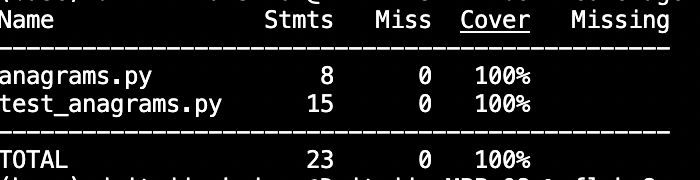
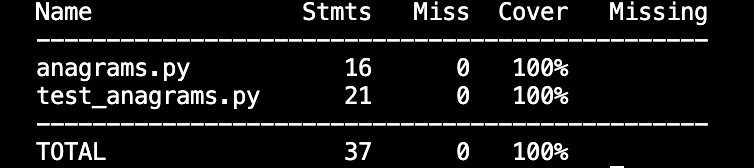
find_anagrams function fixed

diff --git a/08/anagrams.py b/08/anagrams.py
@@ -4,7 +4,7 @@ from collections import Counter
 def find_anagrams(text, pattern):
     """
     Find positions of anagrams pattern in text, case sensitive.
-    Complexity: O(n), n - number of words in text
+    Complexity: O(n)
 
     Args:
         text (str): string to search for anagrams
@@ -13,11 +13,19 @@ def find_anagrams(text, pattern):
     Returns:
         anagrams_positions (list): list of anagrams positions
     """
+    if len(pattern) > len(text):
+        return []
 
+    pattern_last_letter_pos = len(pattern) - 1
     counter_pattern = Counter(pattern)
+    counter_string = Counter(text[:pattern_last_letter_pos])
     anagrams_positions = []
-    for i, word in enumerate(text.split()):
-        if counter_pattern == Counter(word):
+    for i, letter in enumerate(text[pattern_last_letter_pos:]):
+        counter_string[letter] += 1
+        if counter_string == counter_pattern:
             anagrams_positions.append(i)
+        counter_string[text[i]] -= 1
+        if counter_string[text[i]] == 0:
+            del counter_string[text[i]]
 
     return anagrams_positions

diff --git a/08/test_anagrams.py b/08/test_anagrams.py
@@ -19,8 +19,17 @@ class TestAnagrams(unittest.TestCase):
         self.assertEqual(actual, [])
 
     def test_find_anagrams(self):
-        actual = find_anagrams('car tree c boy Rac  arc arca', 'car')
-        self.assertEqual(actual, [0, 5])
+        actual = find_anagrams('cartreecboyRacarcarca', 'car')
+        self.assertEqual(actual, [0, 13, 14, 15, 16, 17, 18])
 
-        actual = find_anagrams('cAr tree boy Rac arC arca', 'car')
+        actual = find_anagrams('cArtreeboyRacarCarca', 'car')
+        self.assertEqual(actual, [12, 16, 17])
+
+        actual = find_anagrams('ca', 'car')
         self.assertEqual(actual, [])
+
+        actual = find_anagrams('CaRcAr', 'cAr')
+        self.assertEqual(actual, [3])
+
+        actual = find_anagrams('qwqw', 'qw')
+        self.assertEqual(actual, [0, 1, 2])
